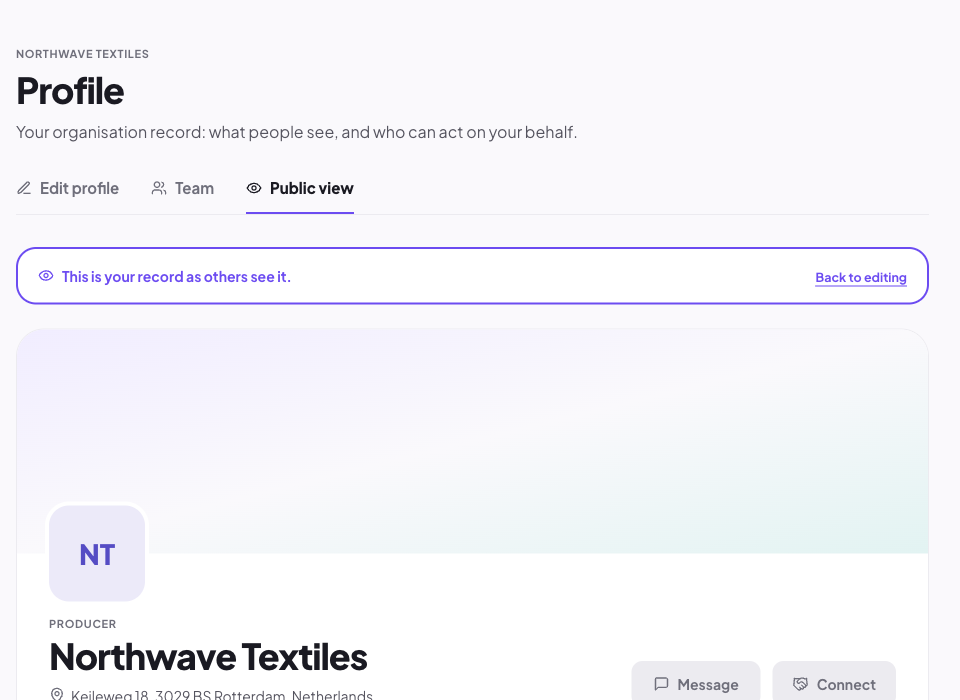
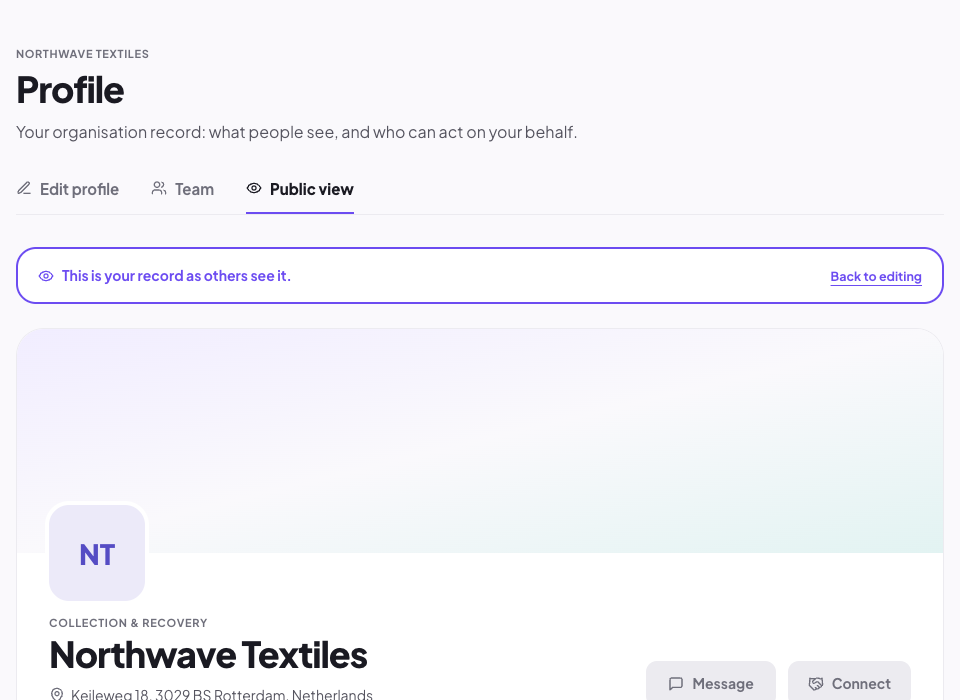
docs(manual): the profile chapters follow the taxonomy change and the editor's sections (FBX-114)
- five essentials, not six, in Claim your organisation and Claimed and unclaimed
- What is visible no longer lists the organisation's type; the directory is
  searched by place in the value chain, not by kind
- Complete your profile walks through D · Offers & needs and E · Certifications,
  and Photos & media mentions videos; the "no form yet" banner is gone
- screenshots retaken: size & reach (FTE, customer reach), photos (videos),
  public view (badge by place in the chain), plus offers & needs and certifications
- section D counts every listing type, logistics and something else included

diff --git a/src/features/manual/pages/CompleteYourProfile.tsx b/src/features/manual/pages/CompleteYourProfile.tsx
@@ -1,5 +1,4 @@
 import { Link } from "@tanstack/react-router";
-import { Banner } from "@/components/ui/Banner";
 import { Eyebrow } from "@/components/ui/Eyebrow";
 import { Figure } from "../Figure";
 import { FactList, proseLink as link, Step } from "../parts";
@@ -79,16 +78,39 @@ export function CompleteYourProfile() {
             private: the Directory only ever uses the size band, and the Compass uses them to compare you
             with organisations like yours.
           </p>
-          <Figure src={`${SHOT}04-size-reach.png`} alt="The Size & reach section open: number of people, development stage, turnover band" />
+          <Figure src={`${SHOT}04-size-reach.png`} alt="The Size & reach section open: people, full-time equivalent, development stage, turnover band, customer reach" />
         </Step>
 
-        <Step n={6} title="Photos &amp; media">
+        <Step n={6} title="D · Offers &amp; needs">
           <p>
-            A logo, a banner, and a gallery of photos with a caption each — JPG, PNG or WebP. This section
-            does not count in the ring, but it is the first thing a partner looks at. Make sure people shown
-            in a photo agree to be there.
+            Two lists: what you offer, and what you are looking for. <strong>Add an offer</strong> and{" "}
+            <strong>Add a need</strong> open the listing form with the side already chosen; each one goes on
+            the Marketplace as a listing, and can be edited or deleted from here. Nothing in this section is
+            private: it holds only what you publish. The fields are in{" "}
+            <Link to="/manual/$page" params={{ page: "listing-fields" }} className={link}>
+              Listing fields
+            </Link>
+            .
           </p>
-          <Figure src={`${SHOT}05-photos.png`} alt="The Photos & media section open: logo, banner and gallery" />
+          <Figure src={`${SHOT}08-offers-needs.png`} alt="The Offers & needs section open: the offers with their activity badge, then the needs" />
+        </Step>
+
+        <Step n={7} title="E · Certifications">
+          <p>
+            The common certifications and standards as choices, and any other one typed in below.{" "}
+            <strong>None</strong> is an answer too, and clears the others. Press{" "}
+            <strong>Save certifications</strong>.
+          </p>
+          <Figure src={`${SHOT}09-certifications.png`} alt="The Certifications section open: the common certifications as choices, then Another one" />
+        </Step>
+
+        <Step n={8} title="Photos &amp; media">
+          <p>
+            A gallery of photos with a caption each — JPG, PNG or WebP — links to videos hosted elsewhere,
+            a logo and a banner. Each part saves on its own. This section does not count in the ring, but it
+            is the first thing a partner looks at. Make sure people shown in a photo agree to be there.
+          </p>
+          <Figure src={`${SHOT}05-photos.png`} alt="The Photos & media section open: gallery, videos, logo and banner" />
         </Step>
       </ol>
 
@@ -98,13 +120,13 @@ export function CompleteYourProfile() {
       <Eyebrow className="mt-12 mb-3">What the badges mean</Eyebrow>
       <FactList rows={STATUSES} />
 
-      <Banner tone="info" label="Not yet editable" className="mt-10">
-        <strong>E · Certifications</strong> has no form yet. The vocabulary of section B is in{" "}
+      <p className="mt-10 text-fx-body text-fx-ink2">
+        The vocabulary of section B is in{" "}
         <Link to="/manual/$page" params={{ page: "what-you-do" }} className={link}>
           What you do
         </Link>
         .
-      </Banner>
+      </p>
 
       <Eyebrow className="mt-12 mb-3">Check the result</Eyebrow>
       <p className="text-fx-body text-fx-ink2">

diff --git a/src/features/manual/pages/WhatIsVisible.tsx b/src/features/manual/pages/WhatIsVisible.tsx
@@ -4,7 +4,7 @@ import { Eyebrow } from "@/components/ui/Eyebrow";
 import { FactList, proseLink as link } from "../parts";
 
 const CIRCLES = [
-  ["Everyone, including visitors", "Your profile's public part: name, type, address on the map, description, what you do, contacts, photos, logo, listings, connections. The marketplace and the events, with their organisers' names."],
+  ["Everyone, including visitors", "Your profile's public part: name, address on the map, description, your place in the value chain, contacts, photos, logo, listings, connections. The marketplace and the events, with their organisers' names."],
   ["Everyone signed in", "The Directory, with the same profiles searchable and mapped. Who answered an event, and its online link. The name of the person behind each thing an organisation did — who posted a listing, who wrote a message — where that thing is shown."],
   ["Your organisation's team", "The private part of the profile: how many people, turnover, development stage, registration details. Your Compass answers and scores. Your mailbox. Your team list, invitations and join requests. The essentials ring."],
   ["The facilitators of a network you are in", "What everyone sees, plus your members' names and emails, and your answers to the Compass questionnaire on needs and opportunities. Their own record on you — health, notes, needs, interactions — is theirs, not yours: you never see it."],

diff --git a/src/features/manual/pages/ClaimedAndUnclaimed.tsx b/src/features/manual/pages/ClaimedAndUnclaimed.tsx
@@ -13,7 +13,7 @@ const LIFE = [
 const KEEPS = [
   ["What an unclaimed profile has", "A name, a type, an address on the map, sometimes a description, a website and what it does — whatever whoever added it knew. Connections declared toward it. Possibly a pending claim."],
   ["What it cannot have", "A team, listings, Compass answers, a mailbox. It appears in the Directory as Claimable and on its page as Unclaimed; its Message button is absent, because there is nobody to read."],
-  ["What claiming changes", "Nothing on the public side: the same profile, now with a team behind it. The badge goes; the Message button appears; the six essentials start being counted."],
+  ["What claiming changes", "Nothing on the public side: the same profile, now with a team behind it. The badge goes; the Message button appears; the five essentials start being counted."],
   ["What giving back deletes", "Listings, Compass answers, invitations, join requests, the team itself, and the private figures — size, turnover, stage, registration details. Not the profile, its address, its photos, or the connections others declared to it — those belong to the map as much as to the organisation."],
 ];
 

diff --git a/src/features/organizations/editor/completion.ts b/src/features/organizations/editor/completion.ts
@@ -1,3 +1,4 @@
+import { LISTING_TYPES } from "@/features/listings/taxonomy";
 import type { OrganizationProfile } from "../types";
 import type { EditorSectionKey } from "./search";
 
@@ -39,7 +40,7 @@ const statusOf = (checks: boolean[]): SectionStatus =>
 
 export function editorSections(org: OrganizationProfile): EditorSection[] {
   const done = Object.fromEntries(essentials(org).map((e) => [e.key, e.done]));
-  const hasListings = ["services", "materials", "capacities", "products"].some((k) => org.profile_completion?.sections[k]);
+  const hasListings = LISTING_TYPES.some((type) => org.profile_completion?.sections[type]);
 
   return [
     {

diff --git a/src/features/manual/pages/FindOrganisations.tsx b/src/features/manual/pages/FindOrganisations.tsx
@@ -77,7 +77,7 @@ export function FindOrganisations() {
       <p className="text-fx-body text-fx-ink2">
         No bookmarks or saved lists yet: the connection you declare is how you keep an organisation close.
         No sorting either: results are alphabetical, and the filters decide what is in. The vocabulary
-        behind What they do is in{" "}
+        behind In the value chain and On the marketplace is in{" "}
         <Link to="/manual/$page" params={{ page: "what-you-do" }} className={link}>
           What you do
         </Link>

diff --git a/src/features/manual/pages/ClaimYourOrganisation.tsx b/src/features/manual/pages/ClaimYourOrganisation.tsx
@@ -68,7 +68,7 @@ export function ClaimYourOrganisation() {
       <FactList rows={AFTER} />
 
       <Banner tone="info" className="mt-10">
-        Once the profile is yours, its six essentials are probably not all there:{" "}
+        Once the profile is yours, its five essentials are probably not all there:{" "}
         <Link to="/manual/$page" params={{ page: "complete-your-profile" }} className={link}>
           Complete your profile
         </Link>{" "}

diff --git a/src/features/manual/sections/howTo.ts b/src/features/manual/sections/howTo.ts
@@ -87,7 +87,7 @@ export const howTo: ManualSection = {
       area: "Directory and connections",
       page: "find-organisations",
       label: "Find organisations",
-      summary: "Search the directory by kind, activity and distance, on the map or in a list.",
+      summary: "Search the directory by place in the value chain, activity and distance, on the map or in a list.",
     },
     {
       area: "Directory and connections",

diff --git a/src/features/manual/pages/YourFirstListing.tsx b/src/features/manual/pages/YourFirstListing.tsx
@@ -67,7 +67,7 @@ export function YourFirstListing() {
 
         <Step n={3} title="File it where partners will look">
           <p>
-            <strong>What is it?</strong> is one of five activities:
+            <strong>What is it?</strong> is one of five activities — or Something else:
           </p>
           <div className="flex flex-wrap gap-2">
             {LISTING_TYPES.map((type) => (
